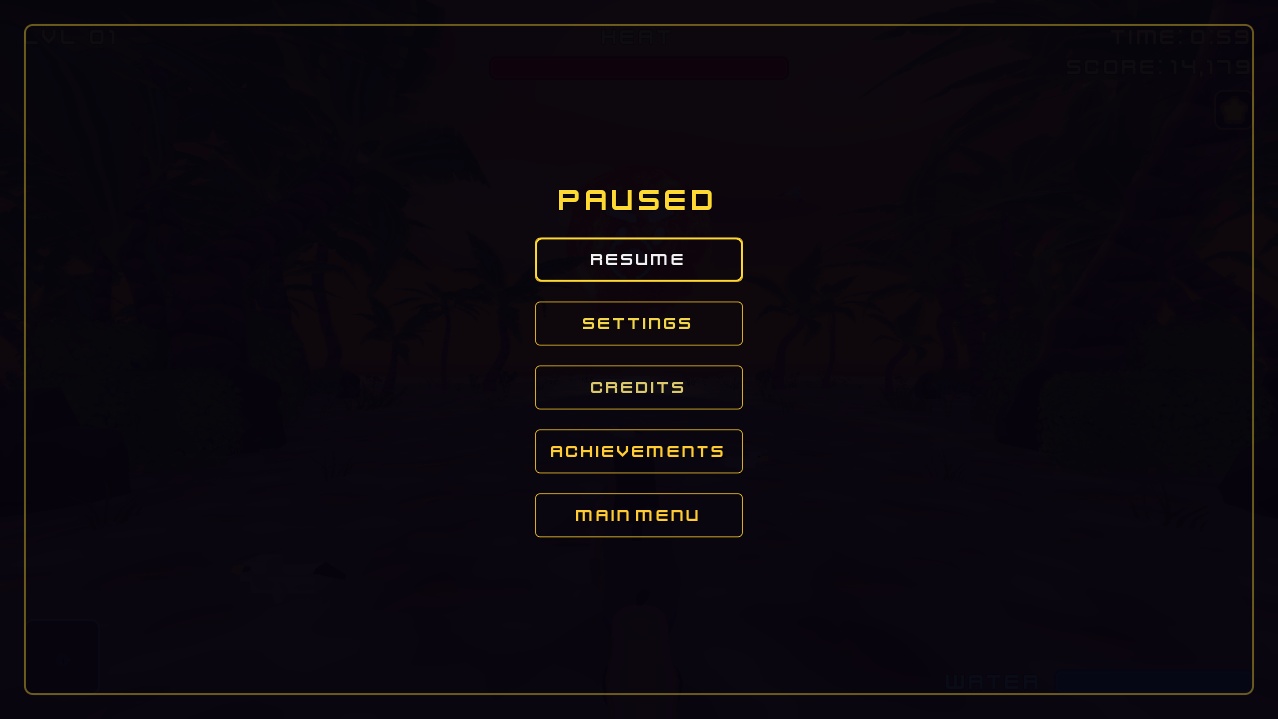
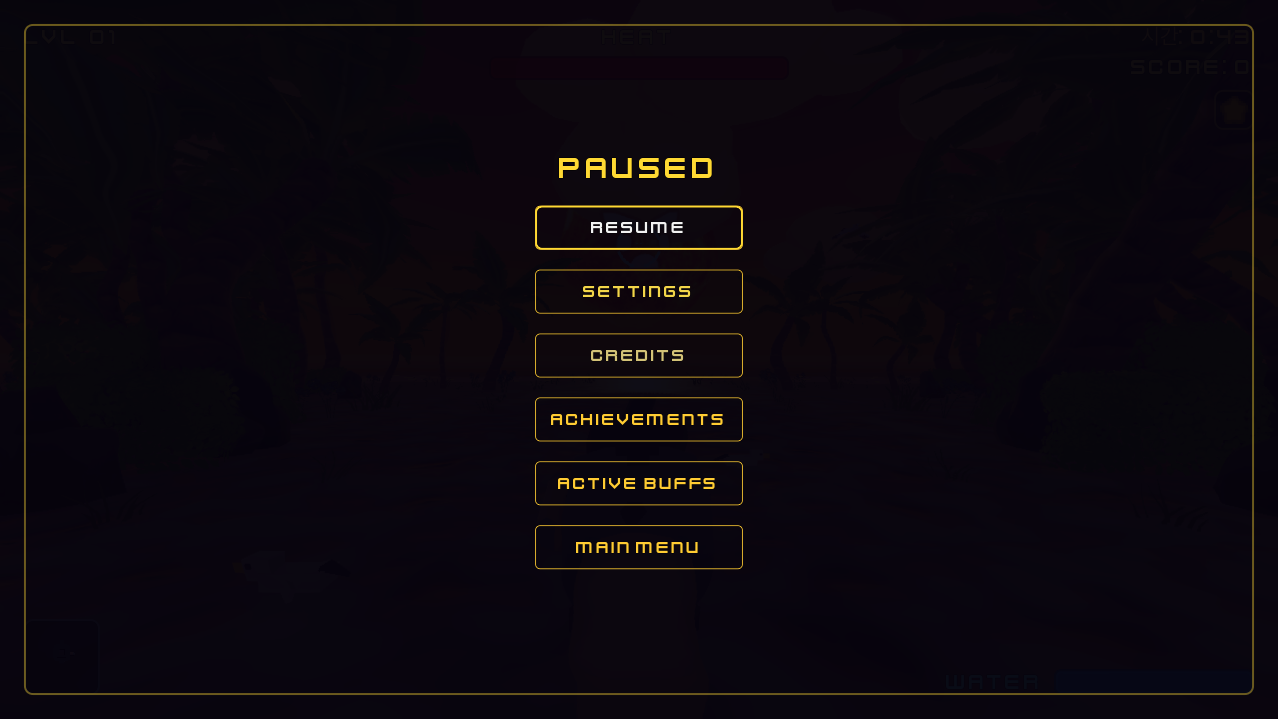
docs: update pause menu screenshots and add Active Buffs screenshots to READMEs
- Replace 06_Pause_Screen_EN/KR with new versions showing Active Buffs button
- Add 14_Active_Buffs_EN.png and 14_Active_Buffs_KR.png to both READMEs

Changed region(s): [[0.4272, 0.2142, 0.5798, 0.7955]]

diff --git a/README.md b/README.md
@@ -37,7 +37,7 @@ A 3D arcade shooter built in Godot 4. Cool down the Sun before the heat overwhel
   </tr>
   <tr>
     <td align="center"><img src="screenshots/13_Weather_Event.png" width="100%"><br><b>Weather Event</b></td>
-    <td align="center"></td>
+    <td align="center"><img src="screenshots/14_Active_Buffs_EN.png" width="100%"><br><b>Active Buffs</b></td>
   </tr>
 </table>
 
